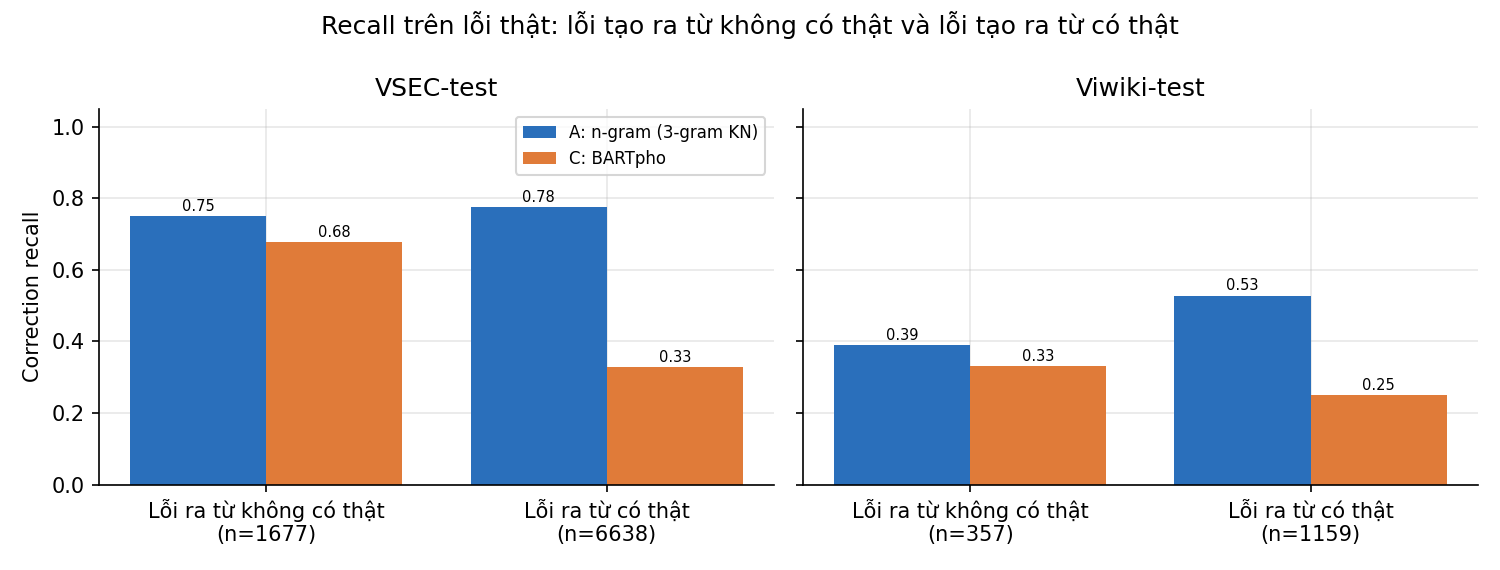
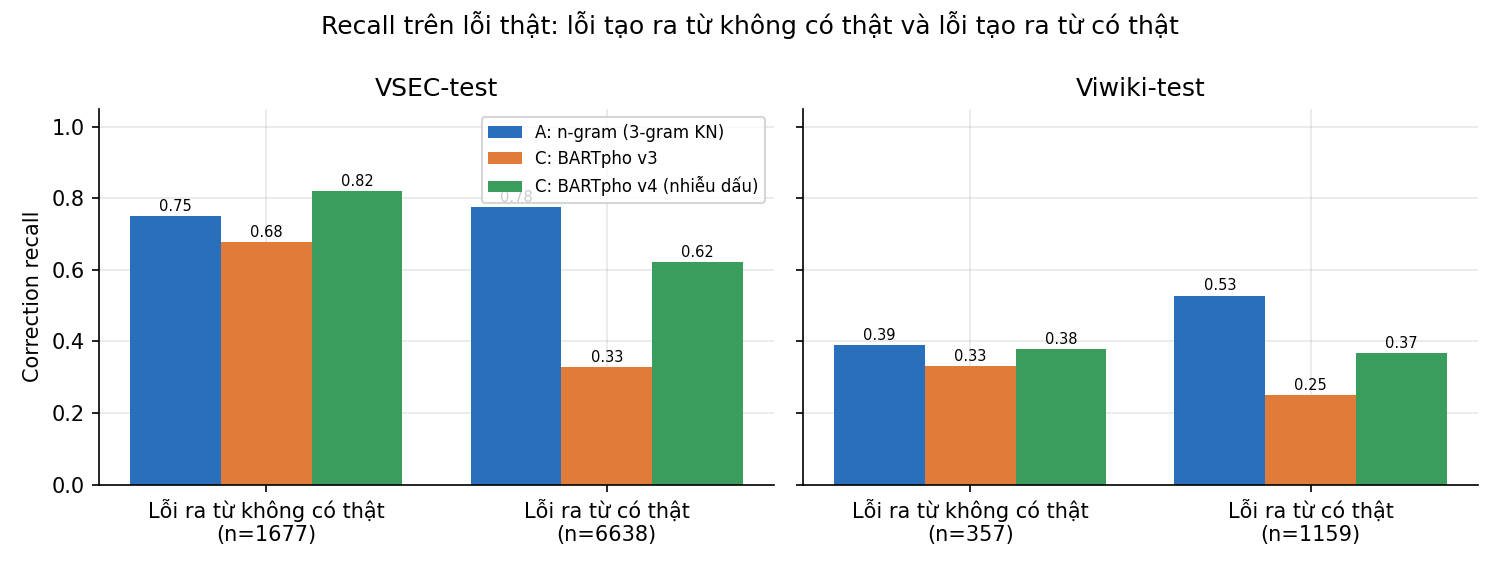
Kết quả BARTpho v4 (nhiễu dấu thanh/dấu phụ): VSEC 0,749, Viwiki 0,322; cập nhật phân tích A vs C

diff --git a/scripts/analyze_errors.py b/scripts/analyze_errors.py
@@ -44,8 +44,9 @@ ROOT = Path(__file__).resolve().parents[1]
 DATASETS = ["syn_test", "vsec_test", "viwiki_test"]
 DS_LABEL = {"syn_test": "Syn-test", "vsec_test": "VSEC-test", "viwiki_test": "Viwiki-test",
             "syn_val": "Syn-val", "syn_train": "Syn-train"}
-MODEL_LABEL = {"ngram": "A: n-gram (3-gram KN)", "bartpho": "C: BARTpho", "identity": "Đồng nhất",
-               "bilstm": "B: BiLSTM", "bartpho_v1unk": "C: BARTpho v2 (lỗi <unk>)"}
+MODEL_LABEL = {"ngram": "A: n-gram (3-gram KN)", "bartpho": "C: BARTpho v3", "identity": "Đồng nhất",
+               "bilstm": "B: BiLSTM", "bartpho_v1unk": "C: BARTpho v2 (lỗi <unk>)",
+               "bartpho_v4": "C: BARTpho v4 (nhiễu dấu)", "bartpho_d12": "C: BARTpho d12 (50k, 1 ep)"}
 # Ablation C (mật độ nhiễu khi sinh dữ liệu train): tag -> (mật độ, nhãn)
 ABLATION_C = {"bartpho_d05": (0.05, "5% · 50k · 1 ep"), "bartpho_d12": (0.12, "12% · 50k · 1 ep"),
               "bartpho_d25": (0.25, "25% · 50k · 1 ep"), "bartpho": (0.12, "12% · 150k · 3 ep\n(mô hình chính)")}

diff --git a/report/phan_tich_A_vs_C.md b/report/phan_tich_A_vs_C.md
@@ -1,10 +1,10 @@
 # Phân tích A (n-gram) và C (BARTpho)
 
-*Bản nháp cho mục 5 của báo cáo (S5b). Số liệu được sinh bởi `PYTHONPATH=src python -X utf8 scripts/analyze_errors.py --models ngram bartpho --steps errors,results`.*
+*Bản nháp cho mục 5 của báo cáo (S5b). Số liệu được sinh bởi `PYTHONPATH=src python -X utf8 scripts/analyze_errors.py --models ngram bartpho bartpho_v4 --steps errors,results`.*
 
 - **Bảng:** `outputs/tables/main_results.csv`, `model_comparison.csv`, `ab_recall_by_kind.csv`, `ablation_noise_density.csv`, `real_error_kinds.csv`.
 - **Hình:** `outputs/figures/model_comparison_test_sets.png`, `ab_recall_word_kind.png`, `ablation_noise_density.png`, `recall_by_error_type.png`, `error_breakdown.png`.
-- **Ví dụ:** `outputs/tables/error_examples.md`, các ví dụ 15–23.
+- **Ví dụ:** `outputs/tables/error_examples.md`, các ví dụ 15–23 (A vs C v3) và 24–32 (A vs C v4).
 
 ## 1. Kết quả chung
 
@@ -13,6 +13,7 @@
 | A: n-gram 3-gram KN | 0,898 | **0,778** | **0,304** | 0,127 / 0,063 / 0,128 |
 | C: BARTpho v2 (lỗi `<unk>`) | 0,919 | 0,490 | 0,159 | 0,159 / 0,523 / 0,139 |
 | C: BARTpho v3 | **0,959** | 0,536 | 0,240 | **0,020 / 0,026 / 0,043** |
+| C: BARTpho v4 (nhiễu dấu, 50k · 1 epoch) | 0,912 | 0,749 | **0,322** | 0,066 / 0,026 / 0,059 |
 
 - **Trên dữ liệu tổng hợp, C thắng rõ.** Correction F1 là 0,959 so với 0,898, và C gần như không sửa quá tay (0,020).
 - **Trên lỗi thật, A thắng.** Trên VSEC: 0,778 so với 0,536. Trên Viwiki: 0,304 so với 0,240.
@@ -27,6 +28,8 @@
   | Cả hai sai | 1.797 |
 
   Gần như mọi lỗi C sửa được thì A cũng sửa được. Ngược lại thì không.
+
+*Các nhận xét dưới đây so sánh A với C v3 (mô hình sinh nhiễu gốc). v4 là thí nghiệm sửa đúng nguyên nhân tìm ra ở mục 2, trình bày ở mục 4.2.*
 
 **Bài học từ v2 sang v3.** Vocab của BARTpho chỉ có kiểu dấu mới (hoà, thoả, khoẻ, tuỳ, uỷ). Các âm tiết viết theo kiểu dấu cũ (hòa, thỏa…) bị tokenizer biến thành `<unk>`. Mô hình học cách xóa chúng, nên tỉ lệ sửa quá tay trên VSEC lên tới 0,52. Đổi sang kiểu dấu mới trước khi tokenize (`to_bartpho_style`) đã đưa tỉ lệ này về 0,026. Đây là lỗi tiền xử lý, không phải giới hạn của mô hình. Nó cho thấy chuẩn hóa Unicode và vị trí dấu phải khớp với vocab của mô hình tiền huấn luyện.
 
@@ -44,13 +47,13 @@ Phân bố kiểu lỗi được suy từ cặp (âm tiết sai, âm tiết đú
 
 Bộ sinh nhiễu (tỉ lệ loại lỗi theo arXiv 2405.02573) chủ yếu tạo lỗi thay hoặc thêm một chữ cái. Lỗi thật thì một nửa là sai dấu thanh. Recall sửa lỗi theo kiểu lỗi trên VSEC (`ab_recall_by_kind.csv`):
 
-| Kiểu lỗi (VSEC) | n | A | C |
-|---|---|---|---|
-| Chỉ sai dấu thanh | 4.288 | **0,876** | 0,330 |
-| Sai dấu phụ | 1.038 | **0,897** | 0,491 |
-| Sai 1 chữ cái | 2.203 | **0,745** | 0,542 |
-| Sai ≥2 ký tự | 363 | 0,234 | **0,444** |
-| Tách/ghép âm tiết | 418 | 0,002 | **0,089** |
+| Kiểu lỗi (VSEC) | n | A | C v3 | C v4 |
+|---|---|---|---|---|
+| Chỉ sai dấu thanh | 4.288 | **0,876** | 0,330 | 0,718 |
+| Sai dấu phụ | 1.038 | **0,897** | 0,491 | 0,764 |
+| Sai 1 chữ cái | 2.203 | **0,745** | 0,542 | 0,596 |
+| Sai ≥2 ký tự | 363 | 0,234 | 0,444 | **0,565** |
+| Tách/ghép âm tiết | 418 | 0,002 | 0,089 | **0,258** |
 
 **Nhận xét:**
 
@@ -65,8 +68,9 @@ Ta gọi một lỗi là **"tạo ra từ có thật"** khi âm tiết sai vẫn
 | | VSEC: không có thật | VSEC: có thật | Viwiki: không có thật | Viwiki: có thật |
 |---|---|---|---|---|
 | n | 1.677 | **6.638** | 357 | **1.159** |
-| A | 0,751 | **0,776** | 0,389 | **0,528** |
-| C | 0,678 | 0,329 | 0,331 | 0,249 |
+| A | 0,751 | **0,776** | **0,389** | **0,528** |
+| C v3 | 0,678 | 0,329 | 0,331 | 0,249 |
+| C v4 | **0,819** | 0,621 | 0,378 | 0,368 |
 
 - **Đa số lỗi thật thuộc loại tạo ra từ có thật:** 80% trên VSEC và 76% trên Viwiki.
 - **Với lỗi tạo ra từ không có thật,** C chỉ thua A khoảng 7 điểm.
@@ -74,7 +78,9 @@ Ta gọi một lỗi là **"tạo ra từ có thật"** khi âm tiết sai vẫn
 
 Hai nhận xét này trùng nhau: phần lớn lỗi tạo ra từ có thật chính là lỗi sai dấu thanh.
 
-## 4. Ablation C: mật độ nhiễu và quy mô huấn luyện
+## 4. Ablation C
+
+### 4.1. Mật độ nhiễu và quy mô huấn luyện
 
 Kết quả trên VSEC-test (`ablation_noise_density.csv`, hình `ablation_noise_density.png`):
 
@@ -87,14 +93,47 @@ Kết quả trên VSEC-test (`ablation_noise_density.csv`, hình `ablation_noise
 
 - **Mật độ nhiễu:** tăng từ 5% lên 12% làm recall tăng 6 điểm, còn precision gần như không đổi. Lên 25% thì F1 không tăng thêm, trong khi tỉ lệ sửa quá tay gần gấp đôi. Mức 12% là điểm cân bằng hợp lý.
 - **Quy mô huấn luyện:** mô hình chính được train nhiều hơn khoảng 9 lần (150k cặp × 3 epoch). Nó tốt hơn trên Syn-test nhưng **kém hơn** trên VSEC (0,536 so với 0,622). Train càng lâu trên dữ liệu tổng hợp, mô hình càng khớp với phân bố nhiễu tự sinh và càng ít dám sửa những lỗi không giống dữ liệu train. Vì vậy, chọn checkpoint theo Syn-val không phải là tiêu chí tốt khi mục tiêu là lỗi thật.
-- **Hướng cải thiện (chưa làm):**
-  - tăng tỉ lệ lỗi dấu thanh và dấu phụ khi sinh nhiễu cho khớp với VSEC;
-  - chọn checkpoint hoặc dừng sớm theo VSEC-dev;
-  - trộn một phần dữ liệu lỗi thật vào tập train.
+
+### 4.2. Loại lỗi sinh nhiễu (v4)
+
+Mục 2 cho thấy nguyên nhân chính khiến C thua trên lỗi thật là lệch phân bố loại lỗi. v4 kiểm chứng trực tiếp giả thuyết này:
+
+- **Hai luật nhiễu mới** trong `src/vspell/noise/rules.py`:
+  - `tone_error`: đổi hoặc bỏ dấu thanh;
+  - `diacritic_error`: đổi a/ă/â, o/ô/ơ, u/ư, d/đ.
+  - Cả hai ưu tiên tạo ra âm tiết có thật.
+- **Cấu hình** `configs/noise_v4.yaml`: dấu thanh 40%, dấu phụ 12%, các luật cũ chiếm phần còn lại.
+- **Phân bố kiểu lỗi** trong dữ liệu train mới: chỉ sai dấu thanh 47%, sai dấu phụ 13%, sai 1 chữ cái 37%. Phân bố này gần với VSEC.
+- **Giữ nguyên mọi thứ khác so với d12:** cùng 50k câu gốc, cùng seed, mật độ 12%, 1 epoch. Vì vậy chênh lệch chỉ đến từ loại lỗi.
+
+| Cấu hình | Syn-test F1 | VSEC P | VSEC R | VSEC F1 | Viwiki F1 | Sửa quá tay VSEC |
+|---|---|---|---|---|---|---|
+| d12 (nhiễu gốc) | – | 0,882 | 0,480 | 0,622 | – | 0,028 |
+| **v4 (nhiễu dấu)** | 0,912 | **0,910** | **0,637** | **0,749** | **0,322** | 0,026 |
+| A: n-gram | 0,898 | 0,819 | **0,741** | **0,778** | 0,304 | 0,063 |
+
+**Nhận xét:**
+
+- **F1 trên VSEC tăng 12,7 điểm** (0,622 → 0,749), chỉ nhờ đổi loại lỗi khi sinh nhiễu.
+  - Recall tăng mạnh, từ 0,480 lên 0,637. Precision vẫn tăng nhẹ và tỉ lệ sửa quá tay không đổi.
+  - Recall lỗi chỉ sai dấu thanh tăng từ 0,47 (d12) và 0,33 (v3) lên 0,72.
+  - Recall lỗi tạo ra từ có thật tăng từ 0,33 (v3) lên 0,62.
+- **Trên Viwiki, v4 vượt A** (0,322 so với 0,304).
+  - Đây là lần đầu C thắng A trên một tập lỗi thật.
+  - Precision của v4 cao hơn A (0,289 so với 0,221), và v4 sửa quá tay ít hơn nhiều (0,059 so với 0,128).
+- **Trên VSEC, A vẫn nhỉnh hơn** (0,778 so với 0,749). Khoảng cách đã thu hẹp từ 24 điểm (so với v3) xuống còn 3 điểm.
+  - v4 vẫn kém A ở lỗi dấu thanh (0,72 so với 0,88).
+  - Ngược lại, v4 tốt hơn A ở lỗi sai ≥2 ký tự và lỗi tách/ghép âm tiết.
+- **Đánh đổi:** trên Syn-test (sinh bằng nhiễu gốc), F1 của v4 giảm từ 0,959 (v3) xuống 0,912 và tỉ lệ sửa quá tay tăng lên 0,066. Điều này cũng khẳng định lại rằng mô hình khớp theo phân bố nhiễu mà nó được train.
+- **Kết luận:** giả thuyết "lệch phân bố loại lỗi" ở mục 2 được xác nhận. Với BARTpho, thiết kế bộ sinh nhiễu quan trọng hơn quy mô huấn luyện: v4 chỉ dùng 50k cặp × 1 epoch nhưng vượt mô hình 150k × 3 epoch tới 21 điểm F1 trên VSEC.
+- **Hướng cải thiện tiếp (chưa làm):**
+  - train v4 với nhiều dữ liệu hơn, chọn checkpoint theo VSEC-dev;
+  - trộn một phần dữ liệu lỗi thật vào tập train;
+  - kết hợp A và C (trên VSEC, có 758 vị trí chỉ C v4 sửa đúng và 1.664 vị trí chỉ A sửa đúng).
 
 ## 5. Ví dụ tiêu biểu
 
-Các ví dụ được đánh số theo `outputs/tables/error_examples.md`. In **đậm** là vị trí lỗi hoặc vị trí bị sửa.
+Các ví dụ được đánh số theo `outputs/tables/error_examples.md`. Ví dụ 15–23 so sánh A với C v3. Ví dụ 24–32 so sánh A với C v4. In **đậm** là vị trí lỗi hoặc vị trí bị sửa.
 
 **Ví dụ 15. A đúng, C sai: lỗi tạo ra từ có thật (Viwiki).**
 
@@ -106,7 +145,7 @@ Các ví dụ được đánh số theo `outputs/tables/error_examples.md`. In *
 
 - src: công sức **đòng** góp của vợ, chồng
 - A: **đóng** góp. C: giữ nguyên `đòng`.
-- Nhận xét: đây là kiểu lỗi chiếm một nửa VSEC. A thử mọi dấu thanh của "đong" và chọn theo LM. C hiếm khi thấy kiểu sửa này khi train.
+- Nhận xét: đây là kiểu lỗi chiếm một nửa VSEC. A thử mọi dấu thanh của "đong" và chọn theo LM. C v3 hiếm khi thấy kiểu sửa này khi train. **C v4 sửa đúng** thành `đóng`.
 
 **Ví dụ 17. A đúng, C sai: sai dấu thanh, ngay cả trên Syn-test.**
 
@@ -152,6 +191,10 @@ Các ví dụ được đánh số theo `outputs/tables/error_examples.md`. In *
 ## 6. Kết luận cho mục 5
 
 1. **Trên dữ liệu cùng phân bố với lúc huấn luyện, C (BARTpho) tốt hơn A** cả về F1 lẫn độ an toàn (ít sửa quá tay).
-2. **Trên lỗi thật, A tốt hơn.** Nguyên nhân chính là lệch phân bố loại lỗi giữa nhiễu tổng hợp và lỗi thật: lỗi sai dấu thanh và lỗi tạo ra từ có thật chiếm đa số trong lỗi thật nhưng rất ít trong dữ liệu train. Bản thân kiến trúc không phải nguyên nhân chính.
+2. **Trên lỗi thật, C v3 thua A.** Nguyên nhân chính là lệch phân bố loại lỗi giữa nhiễu tổng hợp và lỗi thật: lỗi sai dấu thanh và lỗi tạo ra từ có thật chiếm đa số trong lỗi thật nhưng rất ít trong dữ liệu train. Bản thân kiến trúc không phải nguyên nhân chính.
+   - v4 xác nhận điều này. Khi chỉ đổi loại lỗi sinh nhiễu, C tăng từ 0,622 lên 0,749 trên VSEC (A đạt 0,778) và vượt A trên Viwiki (0,322 so với 0,304).
 3. **Hai mô hình bổ sung cho nhau.** C mạnh ở lỗi sai nhiều ký tự và lỗi cần ngữ cảnh rộng, A mạnh ở lỗi dấu. Kết hợp hai mô hình (ví dụ dùng A tạo ứng viên rồi C xếp hạng, hoặc ensemble) là hướng phát triển tự nhiên.
-4. **Kết quả ablation C:** tăng mật độ nhiễu lên 12% có lợi. Train lâu hơn trên dữ liệu tổng hợp lại có hại khi chuyển sang lỗi thật.
+4. **Kết quả ablation C:**
+   - Tăng mật độ nhiễu lên 12% có lợi.
+   - Train lâu hơn trên dữ liệu tổng hợp lại có hại khi chuyển sang lỗi thật.
+   - Loại lỗi sinh nhiễu là yếu tố ảnh hưởng lớn nhất (+12,7 điểm F1 trên VSEC).

diff --git a/outputs/tables/error_examples.md b/outputs/tables/error_examples.md
@@ -146,7 +146,7 @@ In **đậm**: ở `src` là vị trí lỗi thật hoặc bị mô hình sửa;
 | neu_bo_qua_ten_rieng+ngoai_tu_dien+so_ky_hieu | 0.3634 | F1 nếu không sửa nhóm này: P=0.338 R=0.393 (mất 145 sửa đúng) |
 | top_overcorrections | manga→mang (29); Nero→Nào (18); kỉ→kỷ (15); Gin→Giá (15); Nero→Neo (15); Khun→Khu (15); c→có (14); lb→lễ (13); and→anh (13); bạn→bàn (13); điốt→điểm (12); biến→tiến (10); trưởng→trường (10); Mao→Mai (10); Thự→Thọ (10) |  |
 
-## So sánh A: n-gram (3-gram KN) và C: BARTpho
+## So sánh A: n-gram (3-gram KN) và C: BARTpho v3
 
 **Ví dụ 15. ngram đúng, bartpho sai [viwiki-6810-547]**
 
@@ -210,3 +210,68 @@ In **đậm**: ở `src` là vị trí lỗi thật hoặc bị mô hình sửa;
 - ngram: Tết thì **không** thể thiếu hoa đào , hoa **hồi** , vẫn bánh chưng và không khí nhộn nhịp của ngày Tết …
 - bartpho: Tết thì **không** thể thiếu hoa đào , hoa hai , vẫn bánh chưng và không khí nhộn nhịp của ngày Tết …
 - tgt : Tết thì **không** thể thiếu hoa đào , hoa **mai** , vẫn bánh chưng và không khí nhộn nhịp của ngày Tết …
+
+## So sánh A: n-gram (3-gram KN) và C: BARTpho v4 (nhiễu dấu)
+
+**Ví dụ 24. ngram đúng, bartpho_v4 sai [vsec-6850]**
+
+- src : Tuy nhiên , có một số câu hỏi cần phải **đều** chỉnh lại từ ngữ sao cho phù hợp và dễ hiểu .
+- ngram: Tuy nhiên , có một số câu hỏi cần phải **điều** chỉnh lại từ ngữ sao cho phù hợp và dễ hiểu .
+- bartpho_v4: Tuy nhiên , có một số câu hỏi cần phải đều chỉnh lại từ ngữ sao cho phù hợp và dễ hiểu .
+- tgt : Tuy nhiên , có một số câu hỏi cần phải **điều** chỉnh lại từ ngữ sao cho phù hợp và dễ hiểu .
+
+**Ví dụ 25. ngram đúng, bartpho_v4 sai [syn_test-1984]**
+
+- src : … xúc khi nghe những thông tin không được kiểm chứng về đàn **chỉ** .
+- ngram: … xúc khi nghe những thông tin không được kiểm chứng về đàn **chị** .
+- bartpho_v4: … xúc khi nghe những thông tin không được kiểm chứng về đàn chỉ .
+- tgt : … xúc khi nghe những thông tin không được kiểm chứng về đàn **chị** .
+
+**Ví dụ 26. ngram đúng, bartpho_v4 sai [viwiki-3046-98]**
+
+- src : … các sự kiện quần chúng , thì sẽ giảm xuống là 9 **met** .
+- ngram: … các sự kiện quần chúng , thì sẽ giảm xuống là 9 **mét** .
+- bartpho_v4: … các sự kiện quần chúng , thì sẽ giảm xuống là 9 met .
+- tgt : … các sự kiện quần chúng , thì sẽ giảm xuống là 9 **mét** .
+
+**Ví dụ 27. bartpho_v4 đúng, ngram sai [vsec-8827]**
+
+- src : … bản RCP4 . 5 , vào cuối thế kỷ , nhiệt độ **tôi** cao tăng 2.8 độ , nhiệt độ tối thấp tăng 2.3 độ …
+- ngram: … bản RCP4 . 5 , vào cuối thế kỷ , nhiệt độ tôi cao tăng 2.8 độ , nhiệt độ tối thấp tăng 2.3 độ …
+- bartpho_v4: … bản RCP4 . 5 , vào cuối thế kỷ , nhiệt độ **tối** cao tăng 2.8 độ , nhiệt độ tối thấp tăng 2.3 độ …
+- tgt : … bản RCP4 . 5 , vào cuối thế kỷ , nhiệt độ **tối** cao tăng 2.8 độ , nhiệt độ tối thấp tăng 2.3 độ …
+
+**Ví dụ 28. bartpho_v4 đúng, ngram sai [syn_test-3712]**
+
+- src : Riêng với các doanh nghiệp trên địa bàn tỉnh **Yồng** **Nai** , cơ quan thuế đã dừng tính tiền chậm nộp 73,7 …
+- ngram: Riêng với các doanh nghiệp trên địa bàn tỉnh **Yong** **Nam** , cơ quan thuế đã dừng tính tiền chậm nộp 73,7 …
+- bartpho_v4: Riêng với các doanh nghiệp trên địa bàn tỉnh **Đồng** Nai , cơ quan thuế đã dừng tính tiền chậm nộp 73,7 …
+- tgt : Riêng với các doanh nghiệp trên địa bàn tỉnh **Đồng** Nai , cơ quan thuế đã dừng tính tiền chậm nộp 73,7 …
+
+**Ví dụ 29. bartpho_v4 đúng, ngram sai [viwiki-11033-46]**
+
+- src : … tất cả các phe phái trong " Empire Earth " đều có **thưc** trong lịch sử .
+- ngram: … tất cả các phe phái trong " Empire Earth " đều có **thể** trong lịch sử .
+- bartpho_v4: … tất cả các phe phái trong " Empire Earth " đều có **thực** trong lịch sử .
+- tgt : … tất cả các phe phái trong " Empire Earth " đều có **thực** trong lịch sử .
+
+**Ví dụ 30. cả hai sai [vsec-9275]**
+
+- src : … rõ ràng đã làm mất niềm tin và sự hài lòng của **khác** nhiều sinh viên .
+- ngram: … rõ ràng đã làm mất niềm tin và sự hài lòng của khác nhiều sinh viên .
+- bartpho_v4: … rõ ràng đã làm mất niềm tin và sự hài lòng của khác nhiều sinh viên .
+- tgt : … rõ ràng đã làm mất niềm tin và sự hài lòng của **khá** nhiều sinh viên .
+
+**Ví dụ 31. cả hai sai [viwiki-8390-149]**
+
+- src : … mình bị Chúa tể Voldemort giết chết , vì đã lên tiếng **bên** vực cho dân Muggle và những phù thủy Máu bùn .
+- ngram: … mình bị Chúa tể Voldemort giết chết , vì đã lên tiếng bên vực cho dân Muggle và những phù thủy Máu bùn .
+- bartpho_v4: … mình bị Chúa tể Voldemort giết chết , vì đã lên tiếng bên vực cho dân Muggle và những phù thủy Máu bùn .
+- tgt : … mình bị Chúa tể Voldemort giết chết , vì đã lên tiếng **bênh** vực cho dân Muggle và những phù thủy Máu bùn .
+
+**Ví dụ 32. cả hai sai [syn_test-495]**
+
+- src : … tác **nghiệo** của Phó Tổng Biên tập Báo Tiền phong - Phùng **Sưing** cũng rất hữu ích **tro** phóng viên .
+- ngram: … tác **nghiệp** của Phó Tổng Biên tập Báo Tiền phong - Phùng Sưing cũng rất hữu ích **cho** phóng viên .
+- bartpho_v4: … tác **nghiệp** của Phó Tổng Biên tập Báo Tiền phong - Phùng **Sơn** cũng rất hữu ích **cho** phóng viên .
+- tgt : … tác **nghiệp** của Phó Tổng Biên tập Báo Tiền phong - Phùng **Sưởng** cũng rất hữu ích **cho** phóng viên .

diff --git a/report/tien_do.md b/report/tien_do.md
@@ -14,7 +14,7 @@
 | **Mô hình A** | Tự cài n-gram LM + noisy channel + beam search; đã chỉnh tham số trên VSEC-dev | `src/vspell/models/ngram_*.py` |
 | Kết quả A | Cor F1: Syn 0,90 · VSEC 0,78 · Viwiki 0,30 | `outputs/tables/main_results.csv` |
 | Ablation A | Bậc 2/3/4 × Laplace/KN; perplexity | `outputs/tables/ngram_perplexity.csv` |
-| Test | 65 test pass | `tests/` |
+| Test | 75 test pass | `tests/` |
 
 **Phát hiện mới (S5a):** sửa quá tay trên Viwiki chủ yếu do lỗi thật quá ít (0,29%): tỉ lệ sửa quá tay trên token sạch 0,48% (VSEC 0,33%), nhưng bằng 1,64× số lỗi thật. 45% là từ thường, 35% ngoài từ điển (manga→mang), 21% tên riêng. Nghi chuẩn hóa chưa gộp biến thể i/y (`kỉ→kỷ` 15 lần). *26/11 đã kiểm tra:* đúng là do A đổi i→y (lí→lý, kì→kỳ, kĩ→kỹ, kỉ→kỷ, Mĩ→Mỹ), chiếm 54/783 ca sửa quá tay của A trên VSEC và 51/2526 trên Viwiki; BARTpho gần như không mắc. Ảnh hưởng nhỏ (precision của A tăng khoảng 0,5 điểm nếu sửa).
 
@@ -22,6 +22,7 @@
 
 - [x] **Mô hình C (BARTpho)**: v3 xong 26/11 (Kaggle 2×T4, 5,6 giờ). VSEC cor_f1 0,536, over-correction 0,026; Syn-test cor_f1 0,959; Viwiki cor_f1 0,240.
 - [x] Ablation C (mật độ nhiễu 5/12/25%, 50k cặp × 1 epoch, Colab): VSEC cor_f1 0,572 / 0,622 / 0,624. Cả 3 đều cao hơn mô hình đầy đủ (150k × 3 epoch, 0,536) → train lâu trên dữ liệu tổng hợp làm giảm khả năng chuyển sang lỗi thật (recall 0,38 so với 0,48).
+- [x] **BARTpho v4** (nhiễu giàu lỗi dấu thanh/dấu phụ, 50k × 1 epoch, Colab 26/11): VSEC cor_f1 0,749 (d12: 0,622; A: 0,778), Viwiki 0,322 (vượt A 0,304), Syn 0,912. Xác nhận giả thuyết lệch phân bố loại lỗi (`report/phan_tich_A_vs_C.md` mục 4.2, ví dụ 24–32). Checkpoint v4 chưa lưu về máy; demo vẫn dùng v3.
 - [x] Bảng so sánh A vs C (`main_results.csv`, `model_comparison.csv`, `ab_recall_by_kind.csv`)
 - [x] Ví dụ lỗi và hình A vs C (S5b: `report/phan_tich_A_vs_C.md`, ví dụ 15–23)
 - [x] Demo Gradio với A và C (S6b)
